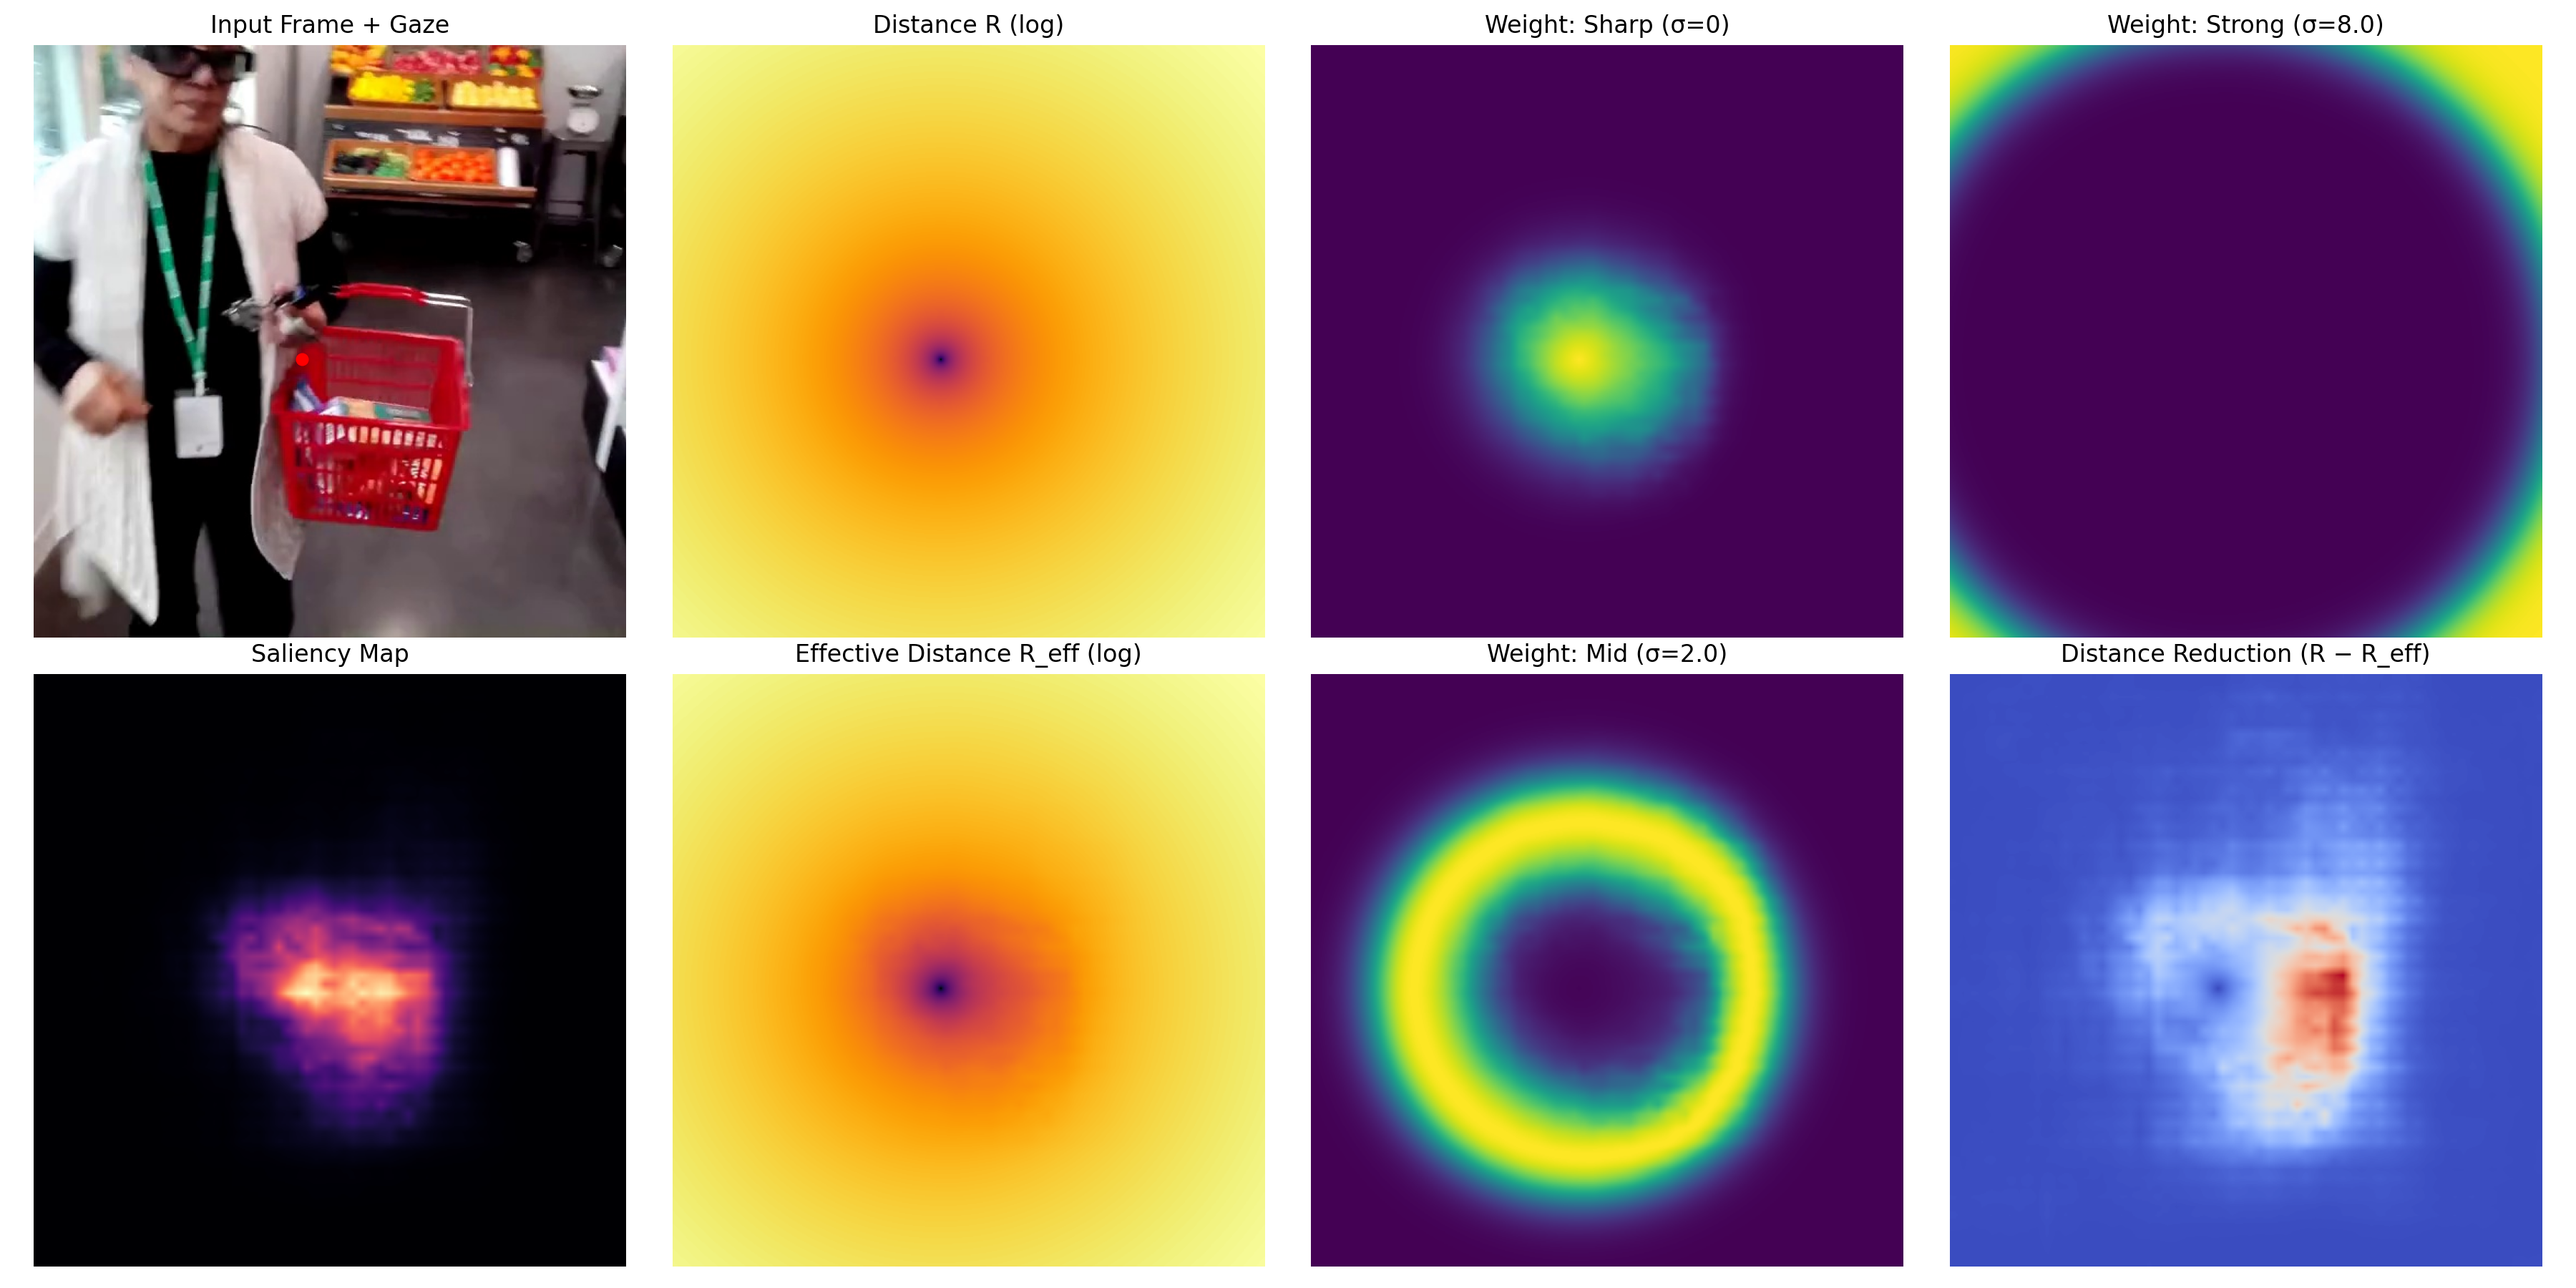
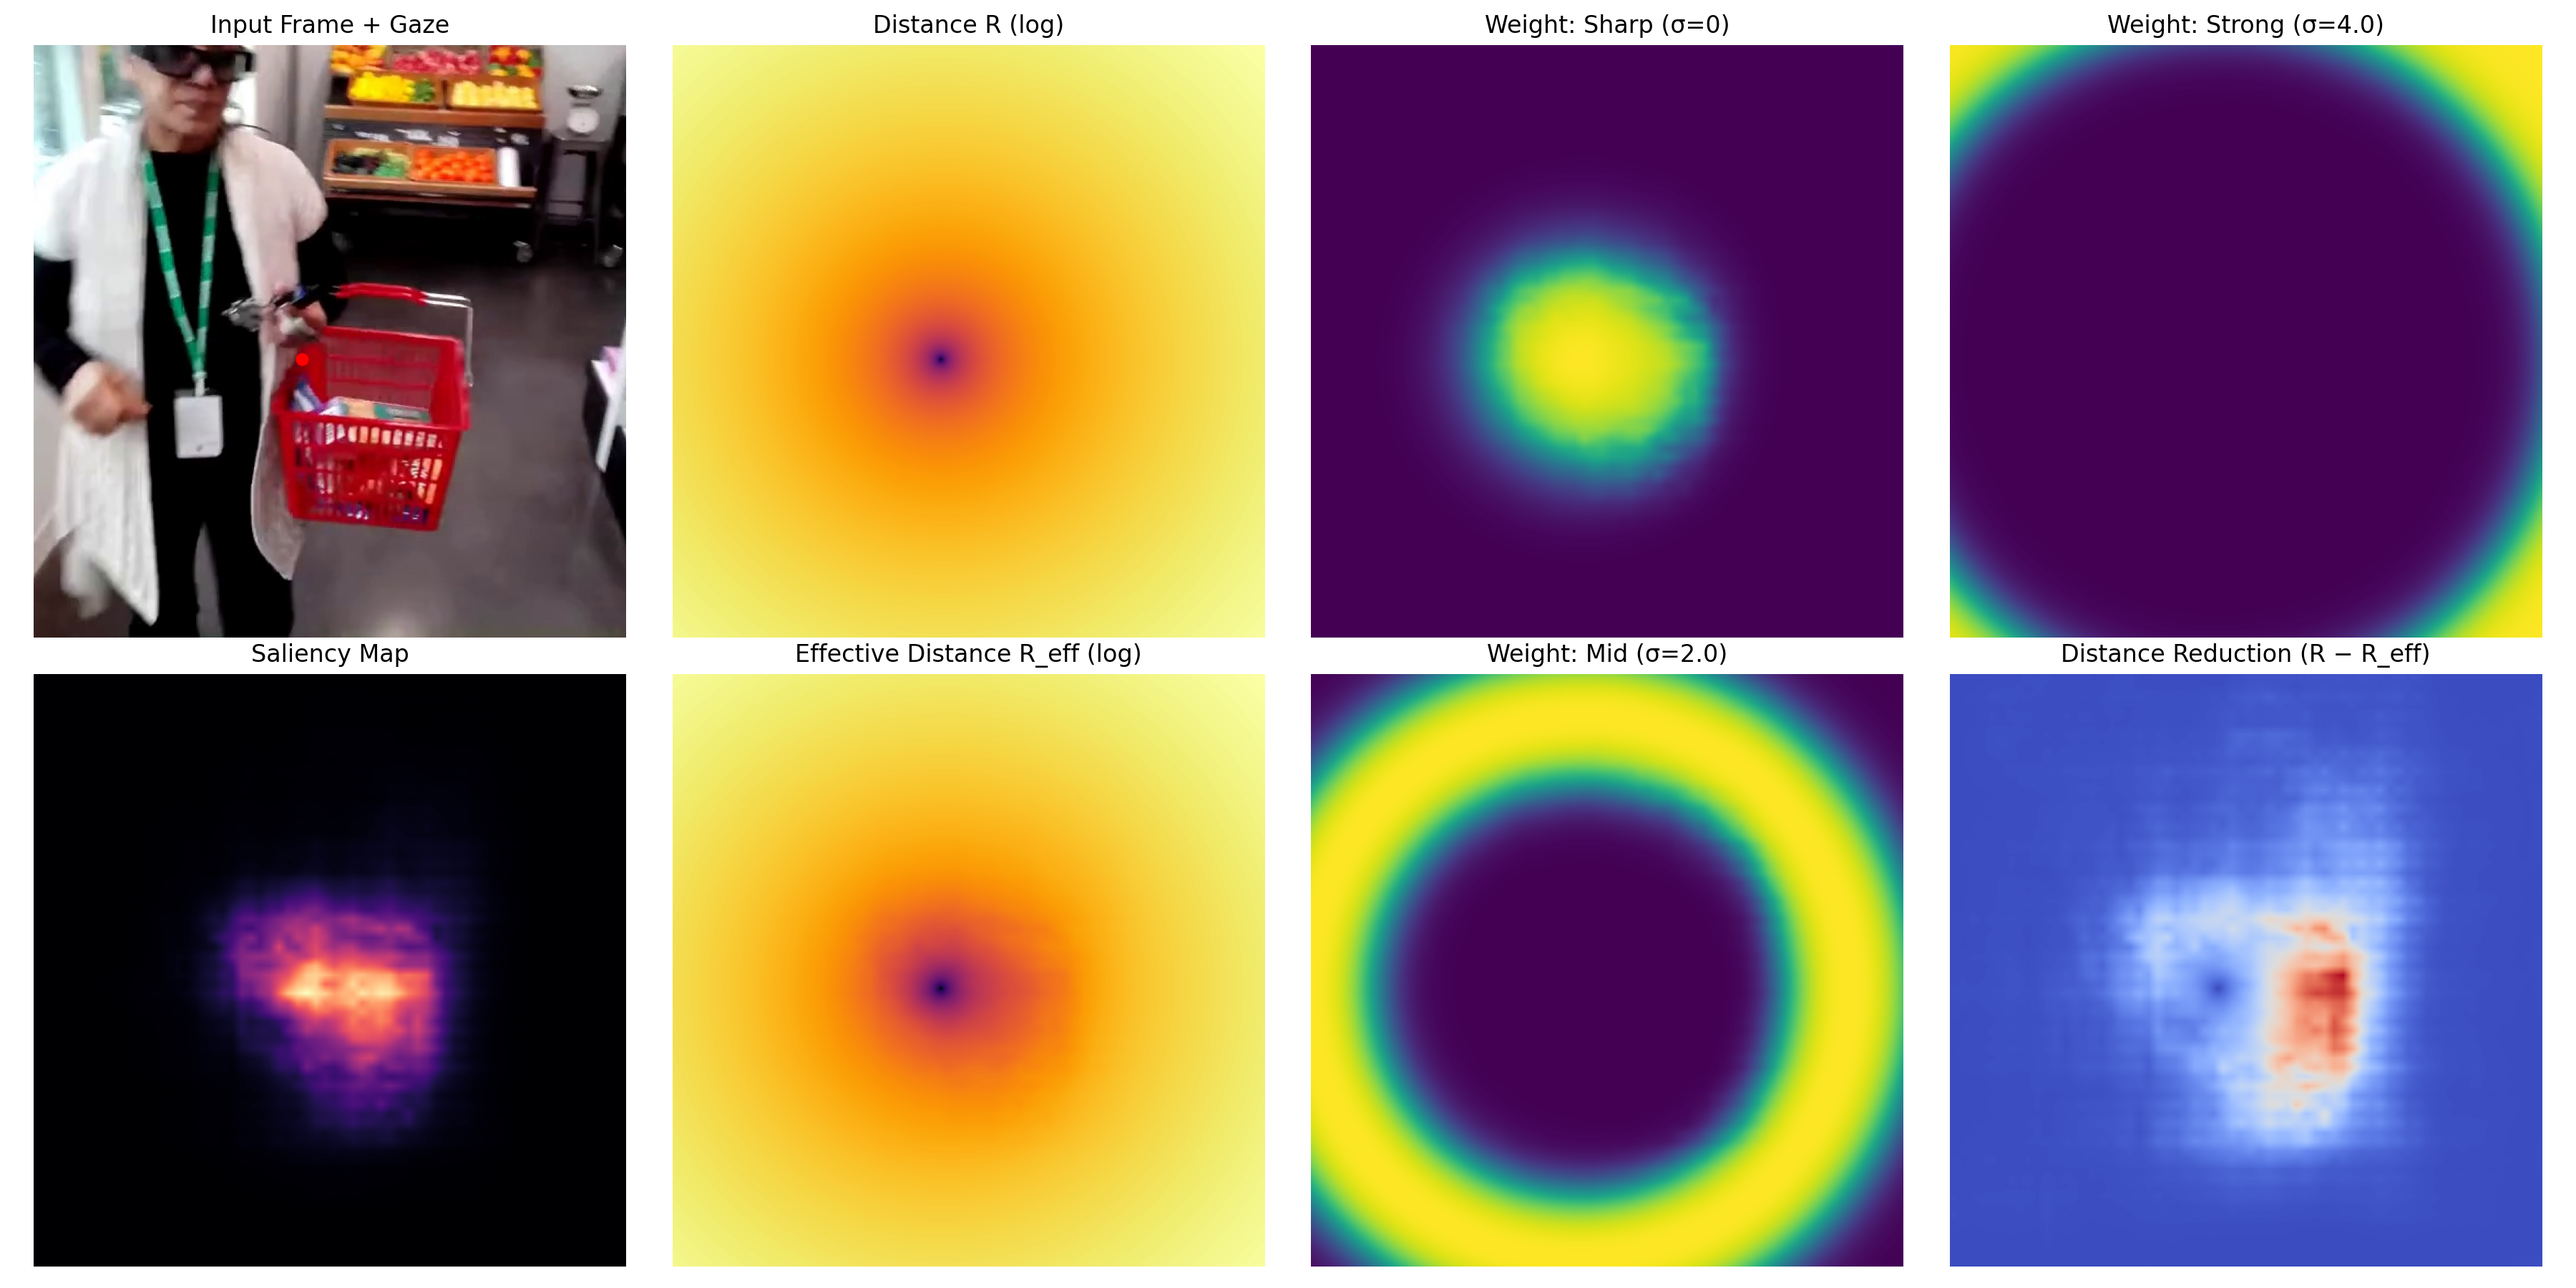
made blur more efficient by reducing amount of rings and caching coordinate meshgrid.

Changed region(s): [[0.4978, 0.4978, 0.7467, 0.9956], [0.56, 0.1556, 0.6844, 0.4044]]

diff --git a/foveation/viz.py b/foveation/viz.py
@@ -1,5 +1,6 @@
 
 import io
+import time
 import numpy as np
 import pandas as pd
 import h5py
@@ -38,10 +39,12 @@ def main():
     annot = df.iloc[i]
     saliency = saliency.astype(np.float32)
     
-    # also test: fcg_paper, fcg_saliency, cortal_magnification?
+    # also test?: fcg_paper, fcg_saliency, cortal_magnification
      
     # methods: crop, blur, fcg
     # viz_fov(frame, annot, saliency, "blur")
+    # performance test:
+    # benchmark_blur(frame, annot, saliency, "blur")
     
     # viz_blur_heatmaps(frame, annot, saliency)
     # viz_relative_sigmas(frame, annot, saliency)
@@ -51,6 +54,34 @@ def main():
     
     # viz_saliency(frame, annot, saliency)
     # viz_eval_saliency(frame, FoveationTransform(foveation=None, base_transform=lambda x: x))
+
+
+def benchmark_blur(frame, annot, saliency, method, runs=100):
+    
+    if method == "crop":
+        foveation = GazeCenteredCrop()
+    elif method == "blur":
+        foveation = RadialBlurFoveation()(frame, annot, saliency)
+    elif method == "fcg":  # wip
+        foveation = FovealCartesianGeometry()
+    else:
+        print("No benchmarkable foveation given.")
+        return None
+
+    for _ in range(10):
+        _ = foveation(frame, annot, saliency)
+    
+    start = time.perf_counter()
+    
+    for _ in range(runs):
+        _ = foveation(frame, annot, saliency)
+    
+    end = time.perf_counter()
+    
+    avg_time = (end - start) / runs
+    
+    print(f"Average blur time per image: {avg_time:.4f} seconds")
+    print(f"Images per second: {1/avg_time:.2f}")
     
 
 def viz_fov(frame, annot, saliency, method):
@@ -156,7 +187,7 @@ def viz_relative_sigmas(frame, annot, saliency):
 
 
 def viz_blur_heatmaps(frame, annot, saliency):
-    radii_frac = [0.1, 0.2, 0.4, 0.8]
+    radii_frac = [0.2, 0.4, 0.8]
     sigma_base = 0.5 
     sigma_growth = 2
     saliency_alpha = 1.0 

diff --git a/foveation/methods/radial_blur.py b/foveation/methods/radial_blur.py
@@ -7,7 +7,7 @@ from foveation.methods.base import Foveation
 
 
 class RadialBlurFoveation(Foveation):
-    def __init__(self, radii_frac=[0.1, 0.2, 0.4, 0.8], sigma_base_frac=0.0015, sigma_growth=2, saliency_alpha=1.0, transition_frac=0.1):
+    def __init__(self, radii_frac=[0.2, 0.4, 0.8], sigma_base_frac=0.0015, sigma_growth=2, saliency_alpha=1.0, transition_frac=0.1):
         # sigma_base_frac was chosen to result in a base_sigma of ~0.8 for an image size of 540x540
         
         self.radii_frac = radii_frac
@@ -15,6 +15,7 @@ class RadialBlurFoveation(Foveation):
         self.sigma_growth = sigma_growth
         self.saliency_alpha = saliency_alpha
         self.transition_frac = transition_frac
+        self.cached_grids = {}
 
     def __call__(self, img: Image.Image, annot: pd.Series, saliency: np.ndarray) -> Image.Image:
         
@@ -24,13 +25,17 @@ class RadialBlurFoveation(Foveation):
         x_g, y_g = annot.gaze_loc_x, annot.gaze_loc_y
         
         S = cv2.resize(saliency, (W, H), interpolation=cv2.INTER_LINEAR)
-        # normalize saliency just to be safe
-        S = S.astype(np.float32)
-        S = (S - S.min()) / (S.max() - S.min() + 1e-6)
+        # if something is off, make sure saliency is normalized by running the following
+        # S = S.astype(np.float32)
+        # S = (S - S.min()) / (S.max() - S.min() + 1e-6)
+        
+        if (H, W) not in self.cached_grids:
+            ys = np.arange(H)
+            xs = np.arange(W)
+            X, Y = np.meshgrid(xs, ys)
+            self.cached_grids[(H, W)] = (X.astype(np.float32), Y.astype(np.float32))
 
-        ys = np.arange(H)
-        xs = np.arange(W)
-        X, Y = np.meshgrid(xs, ys)
+        X, Y = self.cached_grids[(H, W)]
 
         R = np.sqrt((X - x_g)**2 + (Y - y_g)**2)
         R_max = np.max(R)
